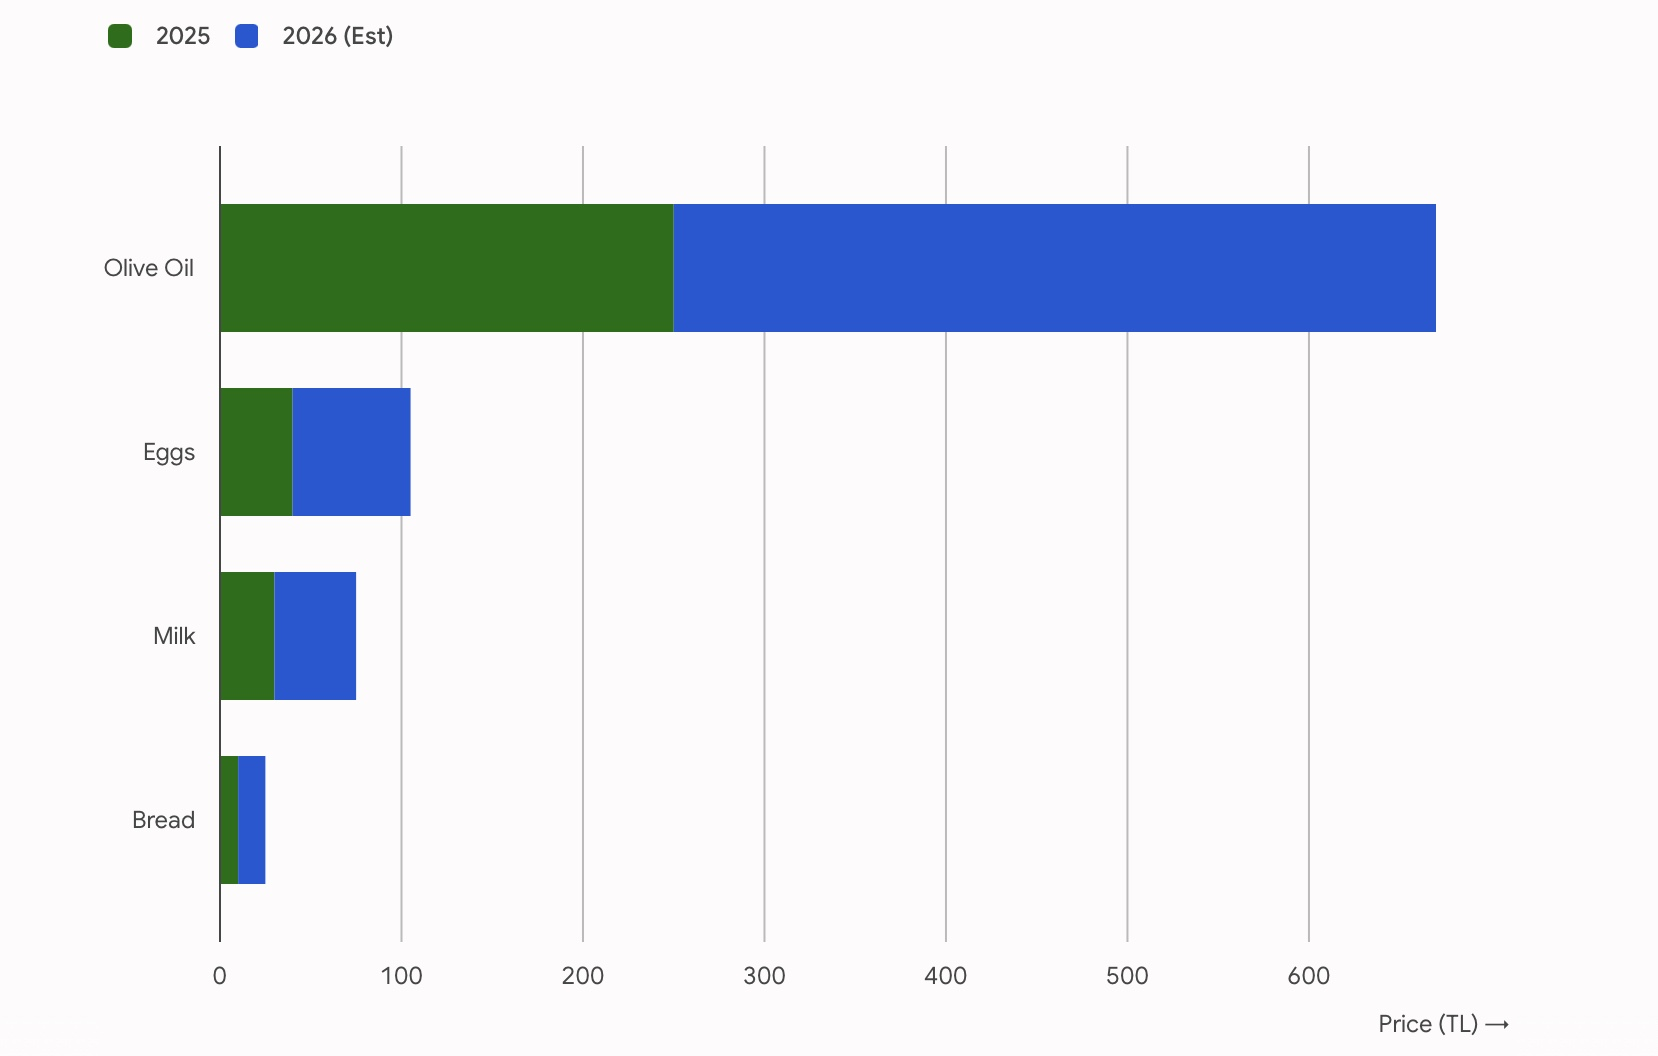
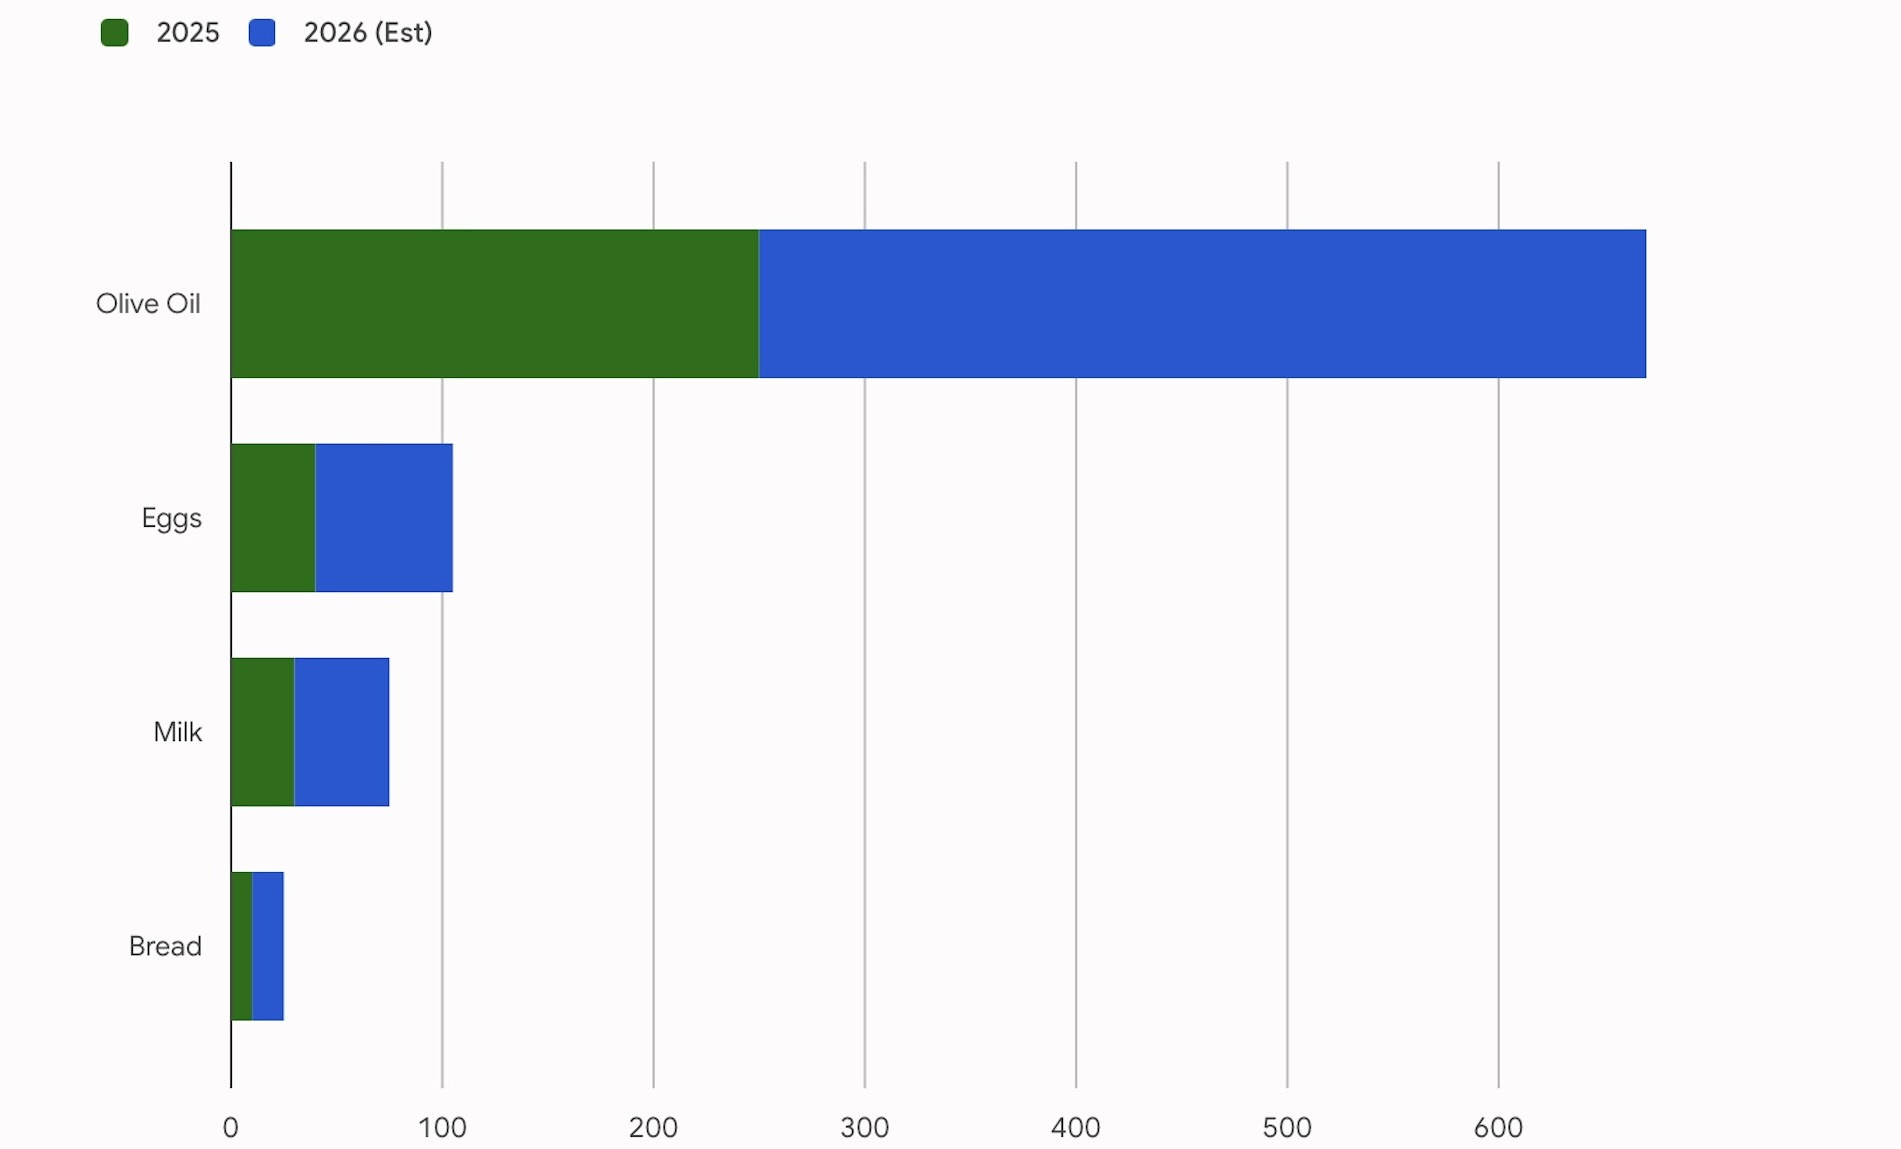
Add files via upload

diff --git a/index.html b/index.html
@@ -606,7 +606,7 @@
                     <p>The struggle to maintain purchasing power is a structural issue altering the survival rate of family-owned businesses across the city. To support these findings, visuals and graphics are integrated into the report to illustrate the precise gap between rising supply costs and average household budgets.</p>
 
                     <img src="economic4.jpeg" alt="Bar chart comparing staple grocery costs between 2025 and 2026" class="article-secondary-img">
-                    <div class="img-caption">Figure 3: Data matrix highlighting the annual price shifts across common essential commodities.</div>
+                    
 
                     <img src="economic5.jpeg" alt="Expense layout chart showing operational overhead shares against profit margin" class="article-secondary-img">
                     